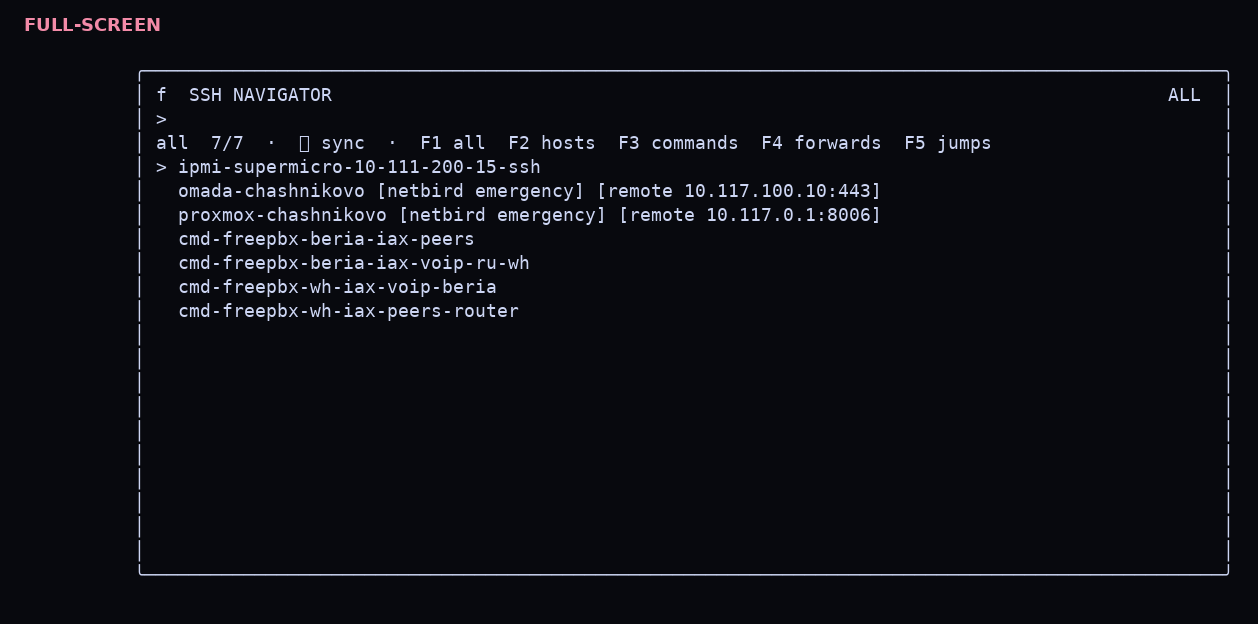
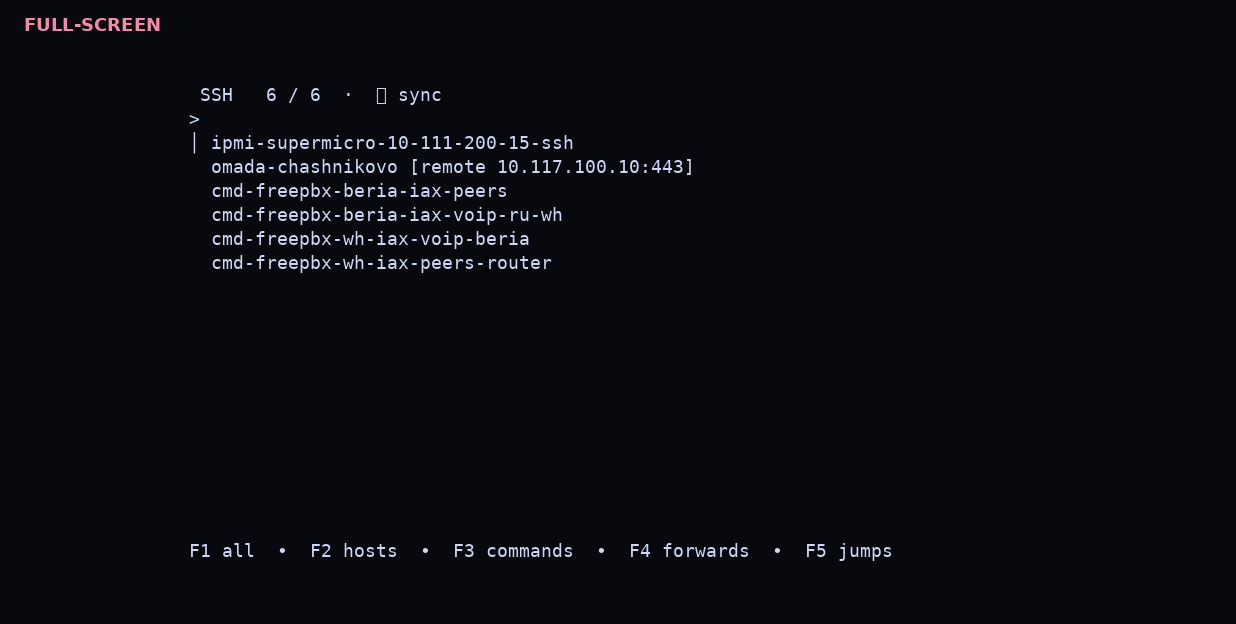
feat: adopt minimal Charmbracelet panel style

diff --git a/internal/ui/picker.go b/internal/ui/picker.go
@@ -187,8 +187,7 @@ func (m PickerModel) Update(msg tea.Msg) (tea.Model, tea.Cmd) {
 func (m PickerModel) View() string {
 	rowStyle := lipgloss.NewStyle().Foreground(lipgloss.Color(m.theme.RowFG))
 	selectedStyle := lipgloss.NewStyle().
-		Foreground(lipgloss.Color(m.theme.SelectedFG)).
-		Background(lipgloss.Color(m.theme.SelectedBG)).
+		Foreground(lipgloss.Color(m.theme.MatchFG)).
 		Bold(true)
 	detailStyle := lipgloss.NewStyle().Foreground(lipgloss.Color(m.theme.DetailFG))
 	statusStyle := lipgloss.NewStyle().Foreground(lipgloss.Color(m.theme.TitleDimFG))
@@ -198,7 +197,10 @@ func (m PickerModel) View() string {
 
 	input := m.input
 	input.Width = m.inputWidth()
-	inputLine := truncateRunes(input.View(), contentWidth)
+	inputLine := lipgloss.NewStyle().
+		Background(lipgloss.Color("#202027")).
+		Width(contentWidth).
+		Render(truncateRunes(input.View(), contentWidth))
 	statusLine := truncateRunes(m.renderStatusBar(statusStyle), contentWidth)
 	body := []string{}
 	if m.shouldRenderResults() {
@@ -217,48 +219,48 @@ func (m PickerModel) View() string {
 		for len(lines) < maxInt(1, innerHeight-2) {
 			lines = append(lines, "")
 		}
-		lines = append(lines, statusLine, inputLine)
+		lines = append(lines, inputLine, statusLine)
 	} else {
-		lines = append(lines, headerLine, inputLine, statusLine)
+		lines = append(lines, headerLine, inputLine)
 		lines = append(lines, body...)
-		for len(lines) < innerHeight {
+		for len(lines) < innerHeight-1 {
 			lines = append(lines, "")
 		}
+		lines = append(lines, statusLine)
 	}
 	content := strings.Join(normalizeRenderedLines(clipLines(lines, innerHeight), contentWidth), "\n")
 	card := lipgloss.NewStyle().
-		Border(lipgloss.RoundedBorder()).
-		BorderForeground(lipgloss.Color(m.theme.InputPrompt)).
-		Background(lipgloss.Color("#181825")).
-		Padding(0, 1).
+		Background(lipgloss.Color("#171717")).
+		Padding(1, 3).
 		Render(content)
 	return lipgloss.NewStyle().MarginLeft(m.horizontalMargin()).Render(card)
 }
 
 func (m PickerModel) renderHeader(width int) string {
-	title := lipgloss.NewStyle().
-		Foreground(lipgloss.Color(m.theme.InputPrompt)).
-		Bold(true).
-		Render("f")
-	subtitle := lipgloss.NewStyle().
-		Foreground(lipgloss.Color(m.theme.TitleDimFG)).
-		Render("  SSH NAVIGATOR")
-	kind := strings.ToUpper(strings.TrimSpace(m.activeKind))
-	if kind == "" {
-		kind = "ALL"
+	label := map[string]string{
+		"all":  "SSH",
+		"host": "HOSTS",
+		"cmd":  "COMMANDS",
+		"fwd":  "FORWARDS",
+		"jump": "JUMPS",
+	}[m.activeKind]
+	if label == "" {
+		label = "SSH"
 	}
 	badge := lipgloss.NewStyle().
-		Foreground(lipgloss.Color("#181825")).
-		Background(lipgloss.Color(m.theme.MatchFG)).
+		Foreground(lipgloss.Color("#171717")).
+		Background(lipgloss.Color(m.theme.InputPrompt)).
 		Bold(true).
 		Padding(0, 1).
-		Render(kind)
-	left := title + subtitle
-	space := width - lipgloss.Width(left) - lipgloss.Width(badge)
-	if space < 1 {
-		return truncateRunes(left, width)
+		Render(label)
+	meta := lipgloss.NewStyle().
+		Foreground(lipgloss.Color(m.theme.TitleDimFG)).
+		Render(fmt.Sprintf("  %d / %d", len(m.matches), len(m.allEntries)))
+	left := badge + meta
+	if sync := m.renderSyncStatus(); sync != "" {
+		left += lipgloss.NewStyle().Foreground(lipgloss.Color(m.theme.TitleDimFG)).Render("  ·  ") + sync
 	}
-	return left + strings.Repeat(" ", space) + badge
+	return truncateRunes(left, width)
 }
 
 func (m PickerModel) pollSyncStatus() tea.Cmd {
@@ -427,7 +429,7 @@ func minInt(a, b int) int {
 }
 
 func (m PickerModel) contentWidth() int {
-	return maxInt(16, m.cardWidth()-4)
+	return maxInt(16, m.cardWidth()-6)
 }
 
 func (m PickerModel) cardWidth() int {
@@ -438,7 +440,7 @@ func (m PickerModel) cardWidth() int {
 	if available < 20 {
 		return maxInt(8, m.width)
 	}
-	return minInt(100, available)
+	return minInt(96, available)
 }
 
 func (m PickerModel) horizontalMargin() int {
@@ -525,12 +527,24 @@ func (m PickerModel) statusLine() string {
 }
 
 func (m PickerModel) renderStatusBar(baseStyle lipgloss.Style) string {
-	line := baseStyle.Render(m.statusLine())
-	if sync := m.renderSyncStatus(); sync != "" {
-		line += baseStyle.Render("  ·  ") + sync
+	items := []struct {
+		key, label, kind string
+	}{
+		{"F1", "all", "all"},
+		{"F2", "hosts", "host"},
+		{"F3", "commands", "cmd"},
+		{"F4", "forwards", "fwd"},
+		{"F5", "jumps", "jump"},
 	}
-	line += baseStyle.Render("  ·  F1 all  F2 hosts  F3 commands  F4 forwards  F5 jumps")
-	return line
+	parts := make([]string, 0, len(items))
+	for _, item := range items {
+		style := baseStyle
+		if m.activeKind == item.kind || (m.activeKind == "" && item.kind == "all") {
+			style = lipgloss.NewStyle().Foreground(lipgloss.Color(m.theme.MatchFG)).Bold(true)
+		}
+		parts = append(parts, style.Render(item.key+" "+item.label))
+	}
+	return strings.Join(parts, baseStyle.Render("  •  "))
 }
 
 func (m PickerModel) renderSyncStatus() string {

diff --git a/internal/ui/picker_test.go b/internal/ui/picker_test.go
@@ -59,23 +59,41 @@ func TestShortQueryDoesNotRenderEllipsis(t *testing.T) {
 	}
 }
 
-func TestPickerViewUsesBubbleTeaAppCard(t *testing.T) {
+func TestPickerViewUsesMinimalBubbleTeaPanel(t *testing.T) {
 	m := NewPicker(nil, "prod", DefaultTheme(), Options{Height: 8})
 	m.width = 100
 	m.height = 8
 	view := stripANSI(m.View())
-	for _, required := range []string{"╭", "╰", "f", "SSH NAVIGATOR", "F1 all"} {
+	for _, required := range []string{"SSH", "F1 all"} {
 		if !strings.Contains(view, required) {
-			t.Fatalf("app card is missing %q: %q", required, view)
+			t.Fatalf("minimal panel is missing %q: %q", required, view)
 		}
 	}
-	for _, forbidden := range []string{"enter ssh", "full command"} {
+	for _, forbidden := range []string{"╭", "╰", "SSH NAVIGATOR", "enter ssh", "full command"} {
 		if strings.Contains(view, forbidden) {
-			t.Fatalf("app card contains obsolete chrome %q: %q", forbidden, view)
+			t.Fatalf("minimal panel contains obsolete chrome %q: %q", forbidden, view)
 		}
 	}
 	if !strings.Contains(view, "> prod") || !strings.Contains(view, "all") {
-		t.Fatalf("app card is missing query or compact status: %q", view)
+		t.Fatalf("minimal panel is missing query or compact status: %q", view)
+	}
+}
+
+func TestSelectedRowUsesSlimAccentMarker(t *testing.T) {
+	m := NewPicker([]notes.Entry{{Desc: "server", Kind: "host", Actions: []notes.Action{{Cmd: "ssh server"}}}}, "", DefaultTheme(), Options{Height: 8})
+	m.width, m.height = 100, 8
+	if plain := stripANSI(m.View()); !strings.Contains(plain, "│ server") {
+		t.Fatalf("selected row does not use a slim accent marker: %q", plain)
+	}
+}
+
+func TestCategoryBadgeUsesHumanLabel(t *testing.T) {
+	m := NewPicker([]notes.Entry{{Desc: "status", Kind: "cmd", Actions: []notes.Action{{Cmd: "ssh router status"}}}}, "", DefaultTheme(), Options{Height: 8})
+	m.width, m.height = 100, 8
+	updated, _ := m.Update(tea.KeyMsg{Type: tea.KeyF3})
+	plain := stripANSI(updated.(PickerModel).View())
+	if !strings.Contains(plain, "COMMANDS") || strings.Contains(plain, "SSH NAVIGATOR") {
+		t.Fatalf("category badge is not reference-style: %q", plain)
 	}
 }
 
@@ -101,8 +119,8 @@ func TestPickerCardIsCenteredAndWidthCappedOnWideTerminal(t *testing.T) {
 	if leftMargin < 20 {
 		t.Fatalf("wide terminal card is not centered: left margin=%d, line=%q", leftMargin, top)
 	}
-	if cardWidth > 100 {
-		t.Fatalf("wide terminal card width=%d, want at most 100", cardWidth)
+	if cardWidth > 96 {
+		t.Fatalf("wide terminal panel width=%d, want at most 96", cardWidth)
 	}
 }
 

diff --git a/internal/app/app_test.go b/internal/app/app_test.go
@@ -50,8 +50,8 @@ func TestVersionReportsCurrentRelease(t *testing.T) {
 	if err := Run([]string{"version"}, strings.NewReader(""), &stdout, &stderr); err != nil {
 		t.Fatal(err)
 	}
-	if got := strings.TrimSpace(stdout.String()); got != "f 0.6.1" {
-		t.Fatalf("version = %q, want %q", got, "f 0.6.1")
+	if got := strings.TrimSpace(stdout.String()); got != "f 0.7.0" {
+		t.Fatalf("version = %q, want %q", got, "f 0.7.0")
 	}
 }
 

diff --git a/internal/ui/theme.go b/internal/ui/theme.go
@@ -40,7 +40,7 @@ func DefaultTheme() Theme {
 		MatchFG:      "#f5c2e7",
 		RowFG:        "#cdd6f4",
 		DividerFG:    "#45475a",
-		SelectedMark: ">",
+		SelectedMark: "│",
 		StatusOKFG:   "#a6e3a1",
 		StatusWarnFG: "#f9e2af",
 		StatusErrFG:  "#f38ba8",

diff --git a/internal/app/app.go b/internal/app/app.go
@@ -20,7 +20,7 @@ import (
 )
 
 var (
-	version     = "0.6.1"
+	version     = "0.7.0"
 	buildCommit = "unknown"
 )
 

diff --git a/README.ru.md b/README.ru.md
@@ -6,15 +6,15 @@
 
 ## Интерфейс
 
-В обоих режимах используется одна розово-акцентная карточка с внешними и внутренними отступами. В compact-режиме она центрируется, ограничивается по ширине и автоматически уменьшается по высоте, когда результатов мало. UI построен на Bubble Tea, Bubbles (`textinput`, `spinner`) и Lip Gloss:
+В обоих режимах используется спокойная тёмная панель без декоративной внешней рамки. В compact-режиме она центрируется, ограничивается по ширине и автоматически уменьшается по высоте, когда результатов мало. UI построен на Bubble Tea, Bubbles (`textinput`, `spinner`) и Lip Gloss:
 
-- заголовок и индикатор активной категории;
+- небольшой цветной badge активной категории и счётчик;
 - строка запроса;
 - счётчик совпадений;
 - одноcтрочный список;
 - цветное выделение совпавших символов;
-- контрастная выбранная строка;
-- компактная рамка без вкладок, preview-панели и отдельного footer.
+- тонкий цветной маркер выбранной строки;
+- приглушённая строка биндов снизу без вкладок и preview-панели.
 
 Доступны два размера:
 

diff --git a/README.md b/README.md
@@ -6,15 +6,15 @@ It reads normal OpenSSH config, fuzzy-searches every SSH entry type in one list,
 
 ## Interface
 
-Both sizes use one pink-accented application card with outer and inner spacing. In compact mode it is centered, width-capped, and automatically shrinks vertically when few results remain. The UI is built with Bubble Tea, Bubbles (`textinput`, `spinner`), and Lip Gloss:
+Both sizes use a calm dark panel without a decorative outer border. In compact mode it is centered, width-capped, and automatically shrinks vertically when few results remain. The UI is built with Bubble Tea, Bubbles (`textinput`, `spinner`), and Lip Gloss:
 
-- title and active-category badge;
+- small colored active-category badge and counter;
 - query line;
 - match counter;
 - single-line results;
 - colored fuzzy-match characters;
-- high-contrast selected row;
-- compact frame without tabs, preview panes, or a separate footer.
+- slim colored marker for the selected row;
+- muted key-binding line without tabs or preview panes.
 
 Choose the size:
 
